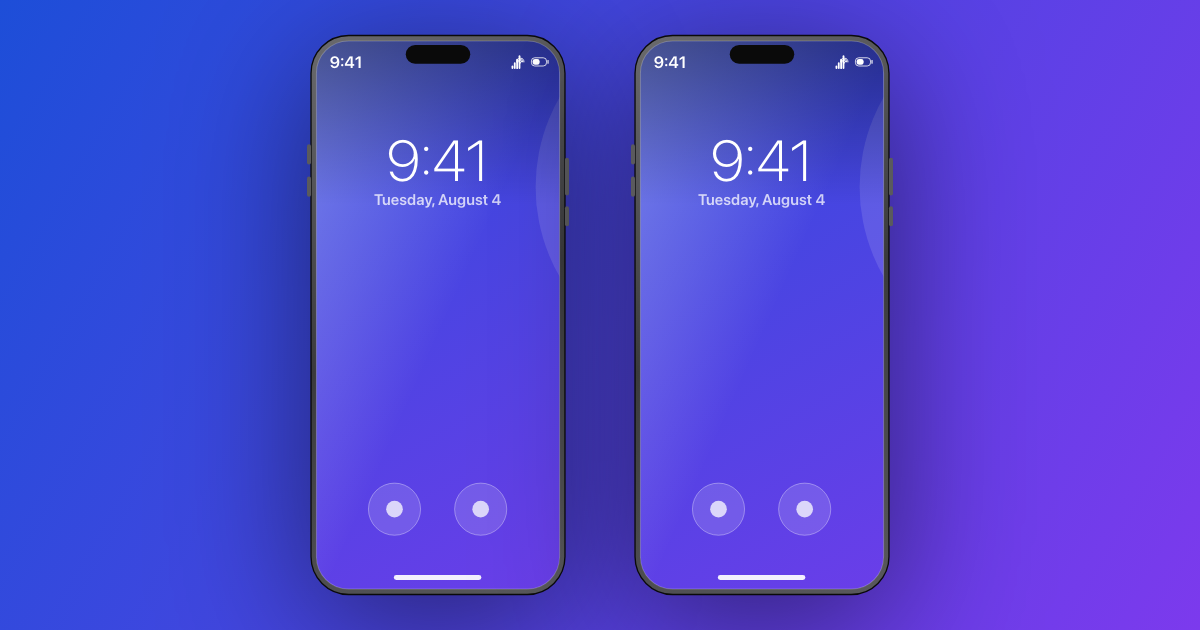
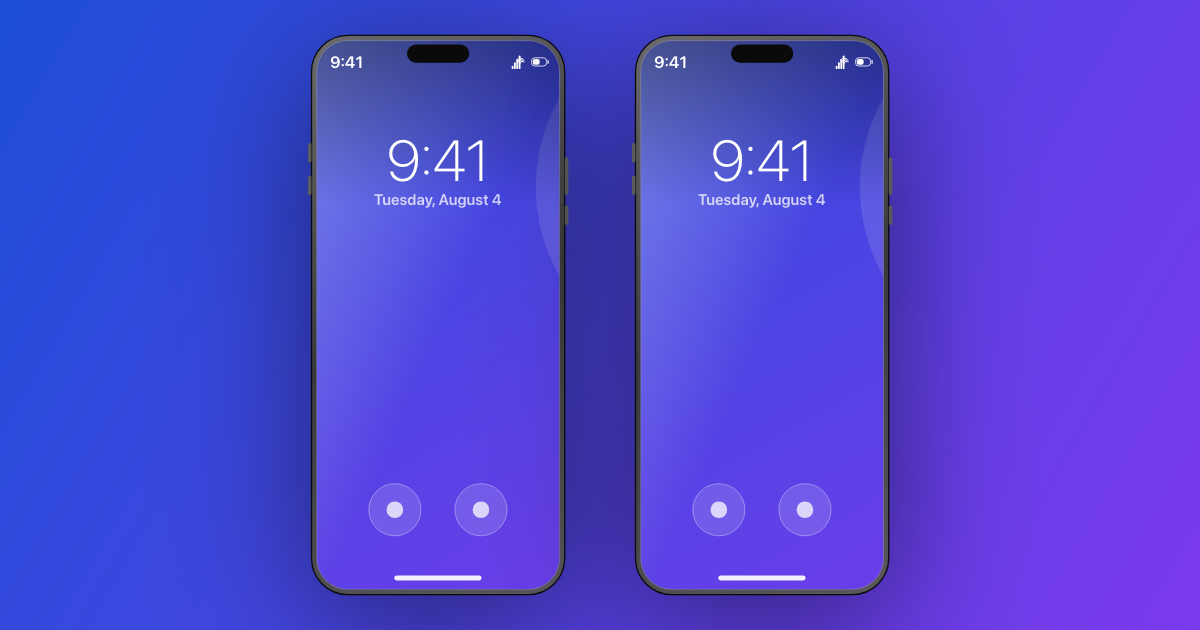
feat(frames): match device specs to real hardware
- iphone15: replace the attached notch with a Dynamic Island pill —
  the real iPhone 15 has the island, not an iPhone-14-style notch;
- iphone16pro: real logical size 402x874 (was shared 390x844);
- pixel8pro: real logical size 448x996, punch-hole recentred;
- macbook: display area now 1512x982, matching a 14" MacBook Pro's
  screen (was 1512x944, ~4% too wide); body/chin re-proportioned.

SVG skins and FRAME_SPECS cutouts move together; unit expectations,
the OG image (uses the 16 Pro skin) and the affected VRT baseline are
updated. Screen-parity suite stays 13/13 green.

diff --git a/tests/unit/frames.test.ts b/tests/unit/frames.test.ts
@@ -42,8 +42,9 @@ describe("FRAME_SPECS", () => {
 
   it("gives each device frame its own native aspect ratio", () => {
     expect(FRAME_SPECS.iphone15.aspectRatio).toBe("390 / 844");
-    expect(FRAME_SPECS.iphone16pro.aspectRatio).toBe("390 / 844");
-    expect(FRAME_SPECS.pixel8pro.aspectRatio).toBe("390 / 844");
+    // Real logical sizes: iPhone 16 Pro is 402x874, Pixel 8 Pro is 448x996.
+    expect(FRAME_SPECS.iphone16pro.aspectRatio).toBe("402 / 874");
+    expect(FRAME_SPECS.pixel8pro.aspectRatio).toBe("448 / 996");
     expect(FRAME_SPECS.galaxy24.aspectRatio).toBe("390 / 844");
     expect(FRAME_SPECS.iphoneSE.aspectRatio).toBe("375 / 667");
     expect(FRAME_SPECS.iphone.aspectRatio).toBe("390 / 844");
@@ -51,7 +52,7 @@ describe("FRAME_SPECS", () => {
     expect(FRAME_SPECS.galaxyTab.aspectRatio).toBe("800 / 1280");
     expect(FRAME_SPECS.desktop.aspectRatio).toBe("16 / 10");
     expect(FRAME_SPECS.tablet.aspectRatio).toBe("4 / 3");
-    expect(FRAME_SPECS.macbook.aspectRatio).toBe("1600 / 1040");
+    expect(FRAME_SPECS.macbook.aspectRatio).toBe("1600 / 1074");
     expect(FRAME_SPECS.imac.aspectRatio).toBe("1600 / 1420");
     expect(FRAME_SPECS.notebook.aspectRatio).toBe("1600 / 1000");
     expect(FRAME_SPECS.browser.aspectRatio).toBe("1440 / 1000");
@@ -67,7 +68,7 @@ describe("FRAME_SPECS", () => {
     expect(FRAME_SPECS.iphoneSE.cutout).toEqual({ x: 10, y: 34, w: 355, h: 577, rx: 10 });
     expect(FRAME_SPECS.ipad.cutout).toEqual({ x: 14, y: 14, w: 834, h: 1112, rx: 12 });
     expect(FRAME_SPECS.galaxyTab.cutout).toEqual({ x: 18, y: 18, w: 764, h: 1244, rx: 24 });
-    expect(FRAME_SPECS.macbook.cutout).toEqual({ x: 44, y: 34, w: 1512, h: 944, rx: 6 });
+    expect(FRAME_SPECS.macbook.cutout).toEqual({ x: 44, y: 34, w: 1512, h: 982, rx: 6 });
     expect(FRAME_SPECS.imac.cutout).toEqual({ x: 70, y: 80, w: 1460, h: 821, rx: 10 });
     expect(FRAME_SPECS.notebook.cutout).toEqual({ x: 80, y: 40, w: 1440, h: 810, rx: 8 });
     expect(FRAME_SPECS.browser.cutout).toEqual({ x: 0, y: 96, w: 1440, h: 904, rx: 20 });
@@ -81,7 +82,7 @@ describe("FRAME_SPECS", () => {
     expect(frameViewBox(FRAME_SPECS.iphoneSE)).toEqual({ w: 375, h: 667 });
     expect(frameViewBox(FRAME_SPECS.ipad)).toEqual({ w: 862, h: 1140 });
     expect(frameViewBox(FRAME_SPECS.galaxyTab)).toEqual({ w: 800, h: 1280 });
-    expect(frameViewBox(FRAME_SPECS.macbook)).toEqual({ w: 1600, h: 1040 });
+    expect(frameViewBox(FRAME_SPECS.macbook)).toEqual({ w: 1600, h: 1074 });
     expect(frameViewBox(FRAME_SPECS.imac)).toEqual({ w: 1600, h: 1420 });
     expect(frameViewBox(FRAME_SPECS.notebook)).toEqual({ w: 1600, h: 1000 });
     expect(frameViewBox(FRAME_SPECS.browser)).toEqual({ w: 1440, h: 1000 });

diff --git a/lib/render/frames.ts b/lib/render/frames.ts
@@ -60,18 +60,20 @@ export const FRAME_SPECS: Record<Exclude<MockupFrame, "custom">, FrameSpec> = {
     padding: 14,
     screenRadius: 48,
     isOverlay: true,
-    aspectRatio: "390 / 844",
-    // viewBox 390x844; screen rect x14 y14 w362 h816 rx48
-    cutout: { x: 14, y: 14, w: 362, h: 816, rx: 48 }
+    aspectRatio: "402 / 874",
+    // viewBox 402x874 (real logical size); screen rect x14 y14 w374 h846 rx48
+    cutout: { x: 14, y: 14, w: 374, h: 846, rx: 48 },
+    viewBox: { w: 402, h: 874 }
   },
   pixel8pro: {
     asset: "/devices/pixel8pro.svg",
     padding: 14,
     screenRadius: 44,
     isOverlay: true,
-    aspectRatio: "390 / 844",
-    // viewBox 390x844; screen rect x14 y14 w362 h816 rx44
-    cutout: { x: 14, y: 14, w: 362, h: 816, rx: 44 }
+    aspectRatio: "448 / 996",
+    // viewBox 448x996 (real logical size); screen rect x14 y14 w420 h968 rx44
+    cutout: { x: 14, y: 14, w: 420, h: 968, rx: 44 },
+    viewBox: { w: 448, h: 996 }
   },
   galaxy24: {
     asset: "/devices/galaxy24.svg",
@@ -119,10 +121,10 @@ export const FRAME_SPECS: Record<Exclude<MockupFrame, "custom">, FrameSpec> = {
     padding: 40,
     screenRadius: 6,
     isOverlay: true,
-    aspectRatio: "1600 / 1040",
-    // viewBox 1600x1040; screen rect x44 y34 w1512 h944 rx6
-    cutout: { x: 44, y: 34, w: 1512, h: 944, rx: 6 },
-    viewBox: { w: 1600, h: 1040 }
+    aspectRatio: "1600 / 1074",
+    // viewBox 1600x1074; screen rect x44 y34 w1512 h982 rx6 (14" MBP display)
+    cutout: { x: 44, y: 34, w: 1512, h: 982, rx: 6 },
+    viewBox: { w: 1600, h: 1074 }
   },
   imac: {
     asset: "/devices/imac.svg",

diff --git a/tests/unit/mockupRenderer.test.ts b/tests/unit/mockupRenderer.test.ts
@@ -115,11 +115,11 @@ describe("buildSceneCss", () => {
 
   it("converts cutout percentages off each skin's own viewBox", () => {
     const macbook = buildSceneCss(base({ frame: "macbook" }));
-    expect(macbook.frame.aspectRatio).toBe("1600 / 1040");
+    expect(macbook.frame.aspectRatio).toBe("1600 / 1074");
     expect(macbook.mediaStyle.left).toBe(`${(44 / 1600) * 100}%`);
-    expect(macbook.mediaStyle.top).toBe(`${(34 / 1040) * 100}%`);
+    expect(macbook.mediaStyle.top).toBe(`${(34 / 1074) * 100}%`);
     expect(macbook.mediaStyle.width).toBe(`${(1512 / 1600) * 100}%`);
-    expect(macbook.mediaStyle.height).toBe(`${(944 / 1040) * 100}%`);
+    expect(macbook.mediaStyle.height).toBe(`${(982 / 1074) * 100}%`);
     const imac = buildSceneCss(base({ frame: "imac" }));
     expect(imac.frame.aspectRatio).toBe("1600 / 1420");
     expect(imac.mediaStyle.left).toBe(`${(70 / 1600) * 100}%`);
